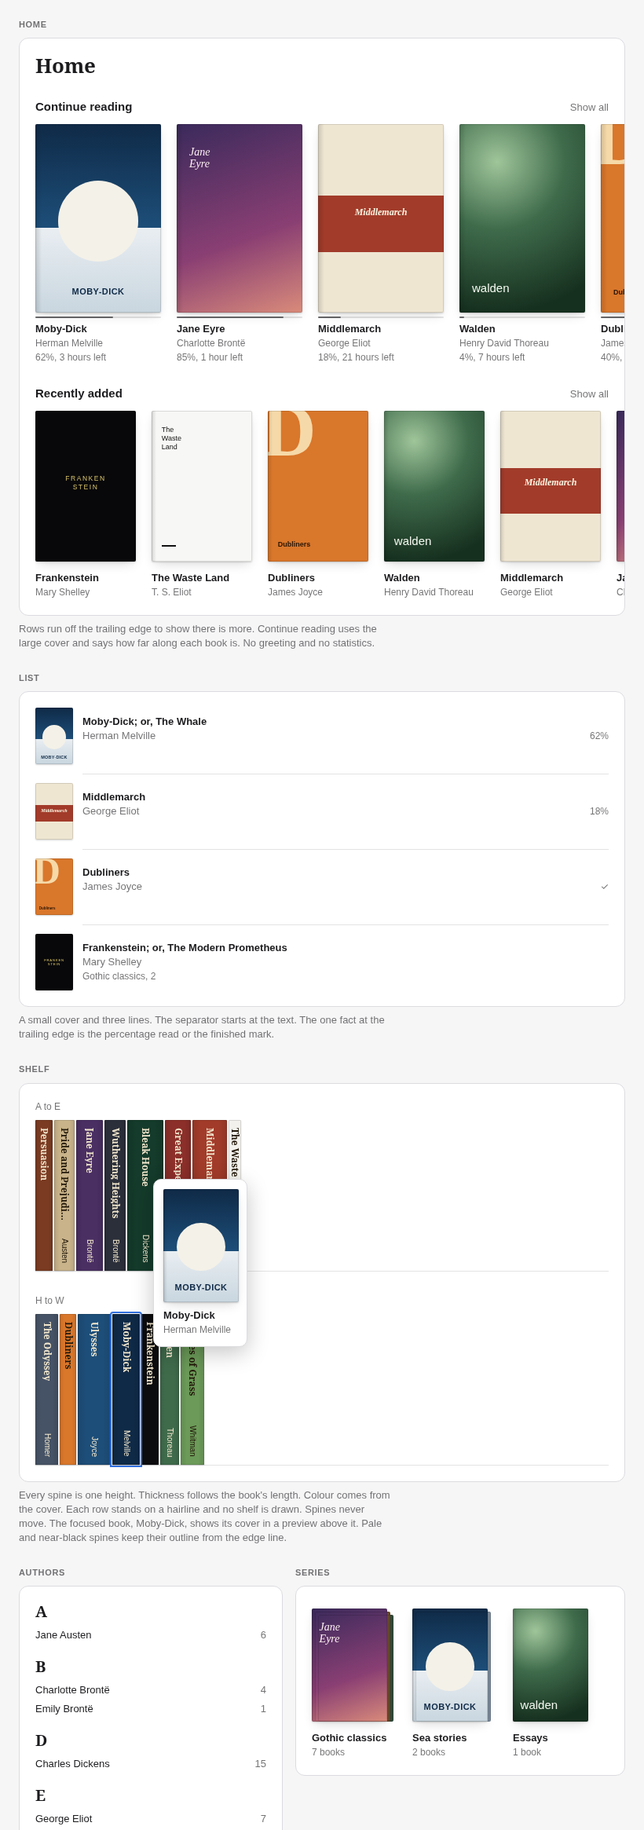
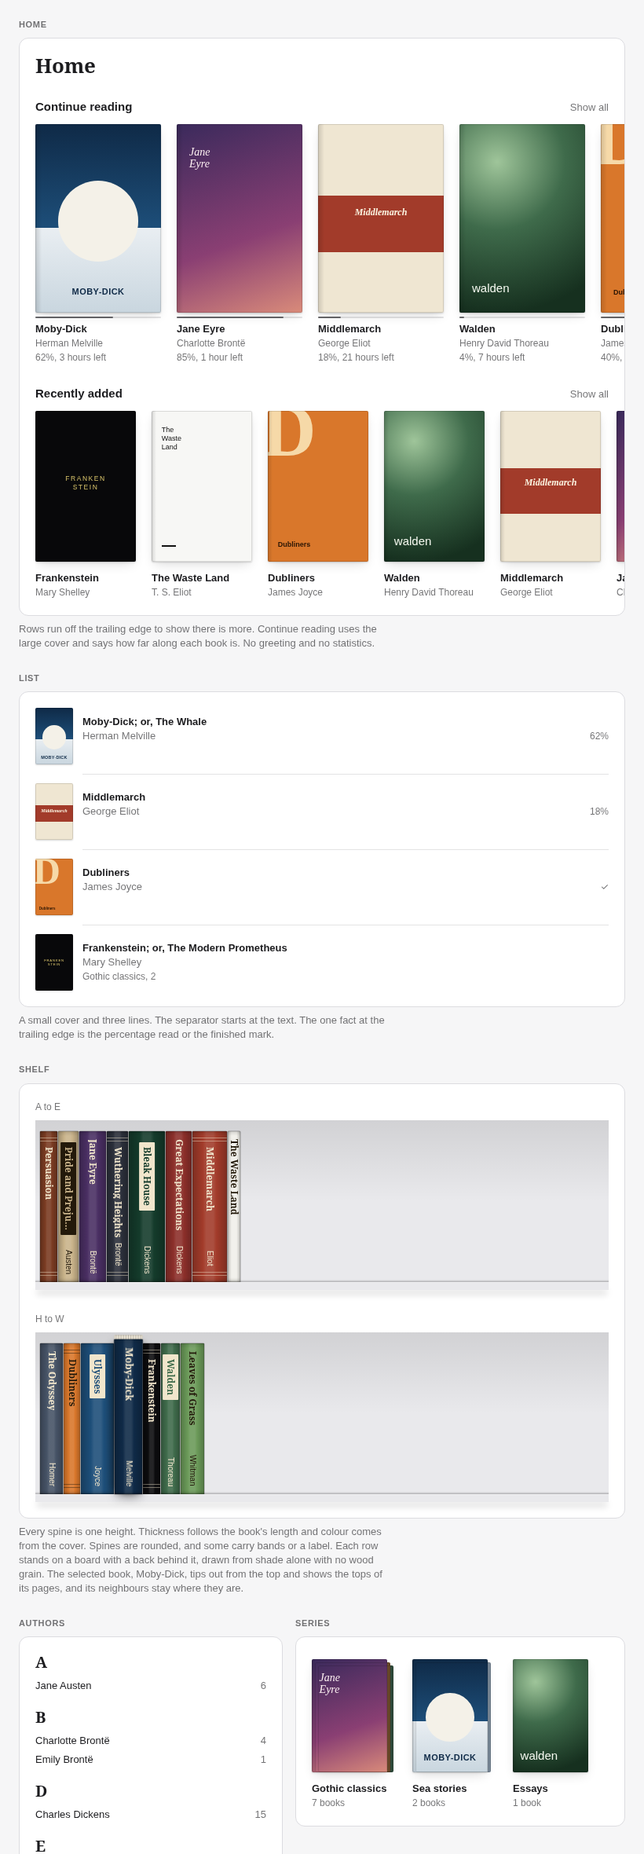
Make the shelf feel real and tip a selected book out from the top
The shelf stood flat spines on a hairline. It now draws depth from shade and
the platform's own fill colours: a board with a lit top edge and a shadow
under it, a back shaded by the board above, spines rounded across their
thickness and turned over at head and tail, and three spine styles (plain,
banded, labelled) chosen by hash. There is still no wood grain or texture, so
the shelf follows light and dark. Spines stay one height.

A selected book turns 10 degrees about its bottom edge with its top toward
the reader and shows the tops of its pages. It is a transform, so the row
does not reflow, which keeps the earlier fix for keyboard navigation and
runs of selected books. Pointer over a spine tips it 4 degrees.

Refs #91

diff --git a/docs/design/interface-views-sample.html b/docs/design/interface-views-sample.html
@@ -130,19 +130,24 @@
   .ltxt .a { color:var(--dim); }
   .ltxt .s, .ltr { color:var(--dim); font-size:12px; font-variant-numeric:tabular-nums; }
   .slabel { color:var(--dim); font-size:12px; margin:0 0 8px; }
-  .srow + .slabel { margin-top:28px; }
-  .srow { display:flex; align-items:flex-end; gap:2px; border-bottom:1px solid var(--hair); }
-  .spine { position:relative; height:192px; flex:none; border-radius:1px 1px 0 0; box-shadow:0 1px 2px var(--contact); overflow:hidden; }
-  .spine::after { content:""; position:absolute; inset:0; border-radius:inherit; box-shadow:inset 0 0 0 1px var(--edge); }
-  .spine.rnd::before { content:""; position:absolute; inset:0; background:linear-gradient(90deg,rgba(0,0,0,.10),rgba(0,0,0,0) 25%,rgba(0,0,0,0) 75%,rgba(0,0,0,.10)); }
+  .board + .slabel { margin-top:28px; }
+  .sback { background:linear-gradient(180deg, rgba(0,0,0,var(--backshade)), rgba(0,0,0,0) 50%), var(--fill); padding-top:14px; }
+  .srow { position:relative; display:flex; align-items:flex-end; gap:1px; padding:0 6px; }
+  .srow::after { content:""; position:absolute; left:0; right:0; bottom:0; height:3px; background:linear-gradient(0deg, rgba(0,0,0,.25), rgba(0,0,0,0)); pointer-events:none; z-index:4; }
+  .board { height:10px; background:var(--fill); box-shadow:inset 0 1px 0 var(--boardlight), 0 8px 8px -2px rgba(0,0,0,var(--boardshadow)); position:relative; }
+  :root { --backshade:.10; --boardlight:rgba(255,255,255,.35); --boardshadow:.14; --pagetop:#ece5d6; }
+  :root[data-theme="dark"] { --backshade:.30; --boardlight:rgba(255,255,255,.10); --boardshadow:.40; --pagetop:#bfb8a9; }
+  .spine { position:relative; height:192px; flex:none; border-radius:1px 1px 0 0; box-shadow:0 0 0 .5px rgba(0,0,0,.35); transform-origin:50% 100%; }
+  .spine::after { content:""; position:absolute; inset:0; border-radius:inherit; box-shadow:inset 0 0 0 1px var(--edge); background:linear-gradient(180deg, rgba(0,0,0,.12), rgba(0,0,0,0) 6px, rgba(0,0,0,0) calc(100% - 6px), rgba(0,0,0,.12)); pointer-events:none; }
+  .spine::before { content:""; position:absolute; inset:0; background:linear-gradient(90deg, rgba(0,0,0,.22), rgba(0,0,0,0) 30%, rgba(0,0,0,0) 70%, rgba(0,0,0,.22)); pointer-events:none; }
+  .spine.rnd::before { background:linear-gradient(90deg, rgba(0,0,0,.22), rgba(0,0,0,0) 30%, rgba(255,255,255,.10) 40%, rgba(255,255,255,.10) 60%, rgba(0,0,0,0) 70%, rgba(0,0,0,.22)); }
   .spine span { position:absolute; left:50%; writing-mode:vertical-rl; transform:translateX(-50%); white-space:nowrap; }
-  .spine .st { top:10px; font:600 12px/1 var(--serif); max-height:120px; overflow:hidden; text-overflow:ellipsis; }
+  .spine .st { top:10px; font:600 12px/1 var(--serif); max-height:118px; overflow:hidden; text-overflow:ellipsis; }
+  .spine .st.lab { top:14px; padding:6px 3px; border-radius:1px; line-height:1.15; }
   .spine .sa { bottom:10px; font:10px/1 var(--font-sans); }
-  .spine.sel { outline:2px solid var(--primary); outline-offset:1px; overflow:visible; z-index:1; }
-  .srow { position:relative; }
-  .pv { position:absolute; left:150px; bottom:150px; width:120px; padding:12px; background:var(--card); border:1px solid var(--border); border-radius:10px; box-shadow:0 8px 28px rgba(0,0,0,.22); z-index:3; font:13px/18px var(--font-sans); }
-  .pv .cover { width:96px; margin-bottom:8px; }
-  .pv b, .pv small { display:block; } .pv small { color:var(--dim); font-size:12px; }
+  .spine .bd { position:absolute; left:0; right:0; height:1px; background:currentColor; opacity:.45; }
+  .spine.sel { transform:perspective(800px) rotateX(-10deg); z-index:3; box-shadow:0 0 0 .5px rgba(0,0,0,.35), 0 6px 14px -4px rgba(0,0,0,.5), 6px 0 10px -4px rgba(0,0,0,.35), -6px 0 10px -4px rgba(0,0,0,.35); }
+  .spine.sel > .pt { position:absolute; left:0; right:0; top:-5px; height:5px; background:repeating-linear-gradient(90deg, var(--pagetop) 0 2px, color-mix(in srgb, var(--pagetop) 82%, #000) 2px 3px); box-shadow:inset 0 0 0 1px var(--edge); }
   .two { display:grid; grid-template-columns:1fr 1.25fr; gap:16px; align-items:start; margin-top:28px; }
   .idx { padding-top:4px; }
   .letter { font:600 20px/1.2 var(--serif); margin:16px 0 6px; }
@@ -178,10 +183,10 @@
 
 <h2>Shelf</h2>
 <div class="panel">
-  <div class="slabel">A to E</div><div class="srow"><div class="spine rnd" style="width:22px;background:#7a3b22;color:#f1e6cc"><span class="st">Persuasion</span></div><div class="spine rnd" style="width:26px;background:#c9b38a;color:#23190a"><span class="st">Pride and Prejudice</span><span class="sa">Austen</span></div><div class="spine rnd" style="width:34px;background:#4a2f63;color:#f1e6cc"><span class="st">Jane Eyre</span><span class="sa">Brontë</span></div><div class="spine rnd" style="width:27px;background:#2b2f3a;color:#f1e6cc"><span class="st">Wuthering Heights</span><span class="sa">Brontë</span></div><div class="spine rnd" style="width:46px;background:#143b2b;color:#f1e6cc"><span class="st">Bleak House</span><span class="sa">Dickens</span></div><div class="spine rnd" style="width:33px;background:#8c2f2a;color:#f1e6cc"><span class="st">Great Expectations</span><span class="sa">Dickens</span></div><div class="spine rnd" style="width:44px;background:#a23b2a;color:#f1e6cc"><span class="st">Middlemarch</span><span class="sa">Eliot</span></div><div class="spine" style="width:16px;background:#f2f1ec;color:#23190a"><span class="st">The Waste Land</span></div></div>
-  <div class="slabel">H to W</div><div class="srow"><div class="spine rnd" style="width:29px;background:#465366;color:#f1e6cc"><span class="st">The Odyssey</span><span class="sa">Homer</span></div><div class="spine rnd" style="width:21px;background:#d9772b;color:#23190a"><span class="st">Dubliners</span></div><div class="spine rnd" style="width:42px;background:#1d4e79;color:#f1e6cc"><span class="st">Ulysses</span><span class="sa">Joyce</span></div><div class="spine sel rnd" style="width:35px;background:#0f2a47;color:#f1e6cc"><span class="st">Moby-Dick</span><span class="sa">Melville</span></div><div class="pv"><div class="cover " style=""><div class="art" style="background:linear-gradient(180deg,#0f2a47 0%,#1d4e79 55%,#e9eef2 55%,#c9d6df 100%)"><i style="position:absolute;left:18%;top:30%;width:64%;aspect-ratio:1;border-radius:50%;background:#f4f1e8"></i><b style="position:absolute;left:10%;right:10%;bottom:9%;font:800 11px/1 var(--font-sans);letter-spacing:.04em;color:#0f2a47;text-align:center">MOBY-DICK</b></div></div><b>Moby-Dick</b><small>Herman Melville</small></div><div class="spine rnd" style="width:22px;background:#0c0c0e;color:#f1e6cc"><span class="st">Frankenstein</span></div><div class="spine rnd" style="width:24px;background:#3f6b4b;color:#f1e6cc"><span class="st">Walden</span><span class="sa">Thoreau</span></div><div class="spine rnd" style="width:30px;background:#6b9a59;color:#23190a"><span class="st">Leaves of Grass</span><span class="sa">Whitman</span></div></div>
+  <div class="slabel">A to E</div><div class="sback"><div class="srow"><div class="spine rnd" style="width:22px;background:#7a3b22;color:#f1e6cc"><i class="bd" style="top:8px"></i><i class="bd" style="top:12px"></i><i class="bd" style="bottom:8px"></i><i class="bd" style="bottom:12px"></i><span class="st" style="top:20px">Persuasion</span></div><div class="spine rnd" style="width:26px;background:#c9b38a;color:#23190a"><span class="st lab" style="background:#23190a;color:#c9b38a">Pride and Prejudice</span><span class="sa">Austen</span></div><div class="spine rnd" style="width:34px;background:#4a2f63;color:#f1e6cc"><span class="st">Jane Eyre</span><span class="sa">Brontë</span></div><div class="spine rnd" style="width:27px;background:#2b2f3a;color:#f1e6cc"><i class="bd" style="top:8px"></i><i class="bd" style="top:12px"></i><i class="bd" style="bottom:8px"></i><i class="bd" style="bottom:12px"></i><span class="st" style="top:20px">Wuthering Heights</span><span class="sa" style="bottom:20px">Brontë</span></div><div class="spine rnd" style="width:46px;background:#143b2b;color:#f1e6cc"><span class="st lab" style="background:#f1e6cc;color:#143b2b">Bleak House</span><span class="sa">Dickens</span></div><div class="spine rnd" style="width:33px;background:#8c2f2a;color:#f1e6cc"><span class="st">Great Expectations</span><span class="sa">Dickens</span></div><div class="spine rnd" style="width:44px;background:#a23b2a;color:#f1e6cc"><i class="bd" style="top:8px"></i><i class="bd" style="top:12px"></i><i class="bd" style="bottom:8px"></i><i class="bd" style="bottom:12px"></i><span class="st" style="top:20px">Middlemarch</span><span class="sa" style="bottom:20px">Eliot</span></div><div class="spine" style="width:16px;background:#f2f1ec;color:#23190a"><span class="st">The Waste Land</span></div></div></div><div class="board"></div>
+  <div class="slabel">H to W</div><div class="sback"><div class="srow"><div class="spine rnd" style="width:29px;background:#465366;color:#f1e6cc"><span class="st">The Odyssey</span><span class="sa">Homer</span></div><div class="spine rnd" style="width:21px;background:#d9772b;color:#23190a"><i class="bd" style="top:8px"></i><i class="bd" style="top:12px"></i><i class="bd" style="bottom:8px"></i><i class="bd" style="bottom:12px"></i><span class="st" style="top:20px">Dubliners</span></div><div class="spine rnd" style="width:42px;background:#1d4e79;color:#f1e6cc"><span class="st lab" style="background:#f1e6cc;color:#1d4e79">Ulysses</span><span class="sa">Joyce</span></div><div class="spine sel rnd" style="width:35px;background:#0f2a47;color:#f1e6cc"><span class="st">Moby-Dick</span><span class="sa">Melville</span><i class="pt"></i></div><div class="spine rnd" style="width:22px;background:#0c0c0e;color:#f1e6cc"><i class="bd" style="top:8px"></i><i class="bd" style="top:12px"></i><i class="bd" style="bottom:8px"></i><i class="bd" style="bottom:12px"></i><span class="st" style="top:20px">Frankenstein</span></div><div class="spine rnd" style="width:24px;background:#3f6b4b;color:#f1e6cc"><span class="st lab" style="background:#f1e6cc;color:#3f6b4b">Walden</span><span class="sa">Thoreau</span></div><div class="spine rnd" style="width:30px;background:#6b9a59;color:#23190a"><span class="st">Leaves of Grass</span><span class="sa">Whitman</span></div></div></div><div class="board"></div>
 </div>
-<p class="note">Every spine is one height. Thickness follows the book's length. Colour comes from the cover. Each row stands on a hairline and no shelf is drawn. Spines never move. The focused book, Moby-Dick, shows its cover in a preview above it. Pale and near-black spines keep their outline from the edge line.</p>
+<p class="note">Every spine is one height. Thickness follows the book's length and colour comes from the cover. Spines are rounded, and some carry bands or a label. Each row stands on a board with a back behind it, drawn from shade alone with no wood grain. The selected book, Moby-Dick, tips out from the top and shows the tops of its pages, and its neighbours stay where they are.</p>
 <div class="two">
 <div>
 <h2>Authors</h2>

diff --git a/docs/design/interface-reader-sample.html b/docs/design/interface-reader-sample.html
@@ -130,19 +130,24 @@
   .ltxt .a { color:var(--dim); }
   .ltxt .s, .ltr { color:var(--dim); font-size:12px; font-variant-numeric:tabular-nums; }
   .slabel { color:var(--dim); font-size:12px; margin:0 0 8px; }
-  .srow + .slabel { margin-top:28px; }
-  .srow { display:flex; align-items:flex-end; gap:2px; border-bottom:1px solid var(--hair); }
-  .spine { position:relative; height:192px; flex:none; border-radius:1px 1px 0 0; box-shadow:0 1px 2px var(--contact); overflow:hidden; }
-  .spine::after { content:""; position:absolute; inset:0; border-radius:inherit; box-shadow:inset 0 0 0 1px var(--edge); }
-  .spine.rnd::before { content:""; position:absolute; inset:0; background:linear-gradient(90deg,rgba(0,0,0,.10),rgba(0,0,0,0) 25%,rgba(0,0,0,0) 75%,rgba(0,0,0,.10)); }
+  .board + .slabel { margin-top:28px; }
+  .sback { background:linear-gradient(180deg, rgba(0,0,0,var(--backshade)), rgba(0,0,0,0) 50%), var(--fill); padding-top:14px; }
+  .srow { position:relative; display:flex; align-items:flex-end; gap:1px; padding:0 6px; }
+  .srow::after { content:""; position:absolute; left:0; right:0; bottom:0; height:3px; background:linear-gradient(0deg, rgba(0,0,0,.25), rgba(0,0,0,0)); pointer-events:none; z-index:4; }
+  .board { height:10px; background:var(--fill); box-shadow:inset 0 1px 0 var(--boardlight), 0 8px 8px -2px rgba(0,0,0,var(--boardshadow)); position:relative; }
+  :root { --backshade:.10; --boardlight:rgba(255,255,255,.35); --boardshadow:.14; --pagetop:#ece5d6; }
+  :root[data-theme="dark"] { --backshade:.30; --boardlight:rgba(255,255,255,.10); --boardshadow:.40; --pagetop:#bfb8a9; }
+  .spine { position:relative; height:192px; flex:none; border-radius:1px 1px 0 0; box-shadow:0 0 0 .5px rgba(0,0,0,.35); transform-origin:50% 100%; }
+  .spine::after { content:""; position:absolute; inset:0; border-radius:inherit; box-shadow:inset 0 0 0 1px var(--edge); background:linear-gradient(180deg, rgba(0,0,0,.12), rgba(0,0,0,0) 6px, rgba(0,0,0,0) calc(100% - 6px), rgba(0,0,0,.12)); pointer-events:none; }
+  .spine::before { content:""; position:absolute; inset:0; background:linear-gradient(90deg, rgba(0,0,0,.22), rgba(0,0,0,0) 30%, rgba(0,0,0,0) 70%, rgba(0,0,0,.22)); pointer-events:none; }
+  .spine.rnd::before { background:linear-gradient(90deg, rgba(0,0,0,.22), rgba(0,0,0,0) 30%, rgba(255,255,255,.10) 40%, rgba(255,255,255,.10) 60%, rgba(0,0,0,0) 70%, rgba(0,0,0,.22)); }
   .spine span { position:absolute; left:50%; writing-mode:vertical-rl; transform:translateX(-50%); white-space:nowrap; }
-  .spine .st { top:10px; font:600 12px/1 var(--serif); max-height:120px; overflow:hidden; text-overflow:ellipsis; }
+  .spine .st { top:10px; font:600 12px/1 var(--serif); max-height:118px; overflow:hidden; text-overflow:ellipsis; }
+  .spine .st.lab { top:14px; padding:6px 3px; border-radius:1px; line-height:1.15; }
   .spine .sa { bottom:10px; font:10px/1 var(--font-sans); }
-  .spine.sel { outline:2px solid var(--primary); outline-offset:1px; overflow:visible; z-index:1; }
-  .srow { position:relative; }
-  .pv { position:absolute; left:150px; bottom:150px; width:120px; padding:12px; background:var(--card); border:1px solid var(--border); border-radius:10px; box-shadow:0 8px 28px rgba(0,0,0,.22); z-index:3; font:13px/18px var(--font-sans); }
-  .pv .cover { width:96px; margin-bottom:8px; }
-  .pv b, .pv small { display:block; } .pv small { color:var(--dim); font-size:12px; }
+  .spine .bd { position:absolute; left:0; right:0; height:1px; background:currentColor; opacity:.45; }
+  .spine.sel { transform:perspective(800px) rotateX(-10deg); z-index:3; box-shadow:0 0 0 .5px rgba(0,0,0,.35), 0 6px 14px -4px rgba(0,0,0,.5), 6px 0 10px -4px rgba(0,0,0,.35), -6px 0 10px -4px rgba(0,0,0,.35); }
+  .spine.sel > .pt { position:absolute; left:0; right:0; top:-5px; height:5px; background:repeating-linear-gradient(90deg, var(--pagetop) 0 2px, color-mix(in srgb, var(--pagetop) 82%, #000) 2px 3px); box-shadow:inset 0 0 0 1px var(--edge); }
   .two { display:grid; grid-template-columns:1fr 1.25fr; gap:16px; align-items:start; margin-top:28px; }
   .idx { padding-top:4px; }
   .letter { font:600 20px/1.2 var(--serif); margin:16px 0 6px; }
@@ -168,19 +173,36 @@
   .ltxt .a { color:var(--dim); }
   .ltxt .s, .ltr { color:var(--dim); font-size:12px; font-variant-numeric:tabular-nums; }
   .slabel { color:var(--dim); font-size:12px; margin:0 0 8px; }
-  .srow + .slabel { margin-top:28px; }
-  .srow { display:flex; align-items:flex-end; gap:2px; border-bottom:1px solid var(--hair); }
-  .spine { position:relative; height:192px; flex:none; border-radius:1px 1px 0 0; box-shadow:0 1px 2px var(--contact); overflow:hidden; }
-  .spine::after { content:""; position:absolute; inset:0; border-radius:inherit; box-shadow:inset 0 0 0 1px var(--edge); }
-  .spine.rnd::before { content:""; position:absolute; inset:0; background:linear-gradient(90deg,rgba(0,0,0,.10),rgba(0,0,0,0) 25%,rgba(0,0,0,0) 75%,rgba(0,0,0,.10)); }
+  .board + .slabel { margin-top:28px; }
+  .sback { background:linear-gradient(180deg, rgba(0,0,0,var(--backshade)), rgba(0,0,0,0) 50%), var(--fill); padding-top:14px; }
+  .srow { position:relative; display:flex; align-items:flex-end; gap:1px; padding:0 6px; }
+  .srow::after { content:""; position:absolute; left:0; right:0; bottom:0; height:3px; background:linear-gradient(0deg, rgba(0,0,0,.25), rgba(0,0,0,0)); pointer-events:none; z-index:4; }
+  .board { height:10px; background:var(--fill); box-shadow:inset 0 1px 0 var(--boardlight), 0 8px 8px -2px rgba(0,0,0,var(--boardshadow)); position:relative; }
+  :root { --backshade:.10; --boardlight:rgba(255,255,255,.35); --boardshadow:.14; --pagetop:#ece5d6; }
+  :root[data-theme="dark"] { --backshade:.30; --boardlight:rgba(255,255,255,.10); --boardshadow:.40; --pagetop:#bfb8a9; }
+  .spine { position:relative; height:192px; flex:none; border-radius:1px 1px 0 0; box-shadow:0 0 0 .5px rgba(0,0,0,.35); transform-origin:50% 100%; }
+  .spine::after { content:""; position:absolute; inset:0; border-radius:inherit; box-shadow:inset 0 0 0 1px var(--edge); background:linear-gradient(180deg, rgba(0,0,0,.12), rgba(0,0,0,0) 6px, rgba(0,0,0,0) calc(100% - 6px), rgba(0,0,0,.12)); pointer-events:none; }
+  .spine::before { content:""; position:absolute; inset:0; background:linear-gradient(90deg, rgba(0,0,0,.22), rgba(0,0,0,0) 30%, rgba(0,0,0,0) 70%, rgba(0,0,0,.22)); pointer-events:none; }
+  .spine.rnd::before { background:linear-gradient(90deg, rgba(0,0,0,.22), rgba(0,0,0,0) 30%, rgba(255,255,255,.10) 40%, rgba(255,255,255,.10) 60%, rgba(0,0,0,0) 70%, rgba(0,0,0,.22)); }
   .spine span { position:absolute; left:50%; writing-mode:vertical-rl; transform:translateX(-50%); white-space:nowrap; }
-  .spine .st { top:10px; font:600 12px/1 var(--serif); max-height:120px; overflow:hidden; text-overflow:ellipsis; }
+  .spine .st { top:10px; font:600 12px/1 var(--serif); max-height:118px; overflow:hidden; text-overflow:ellipsis; }
+  .spine .st.lab { top:14px; padding:6px 3px; border-radius:1px; line-height:1.15; }
   .spine .sa { bottom:10px; font:10px/1 var(--font-sans); }
-  .spine.sel { outline:2px solid var(--primary); outline-offset:1px; overflow:visible; z-index:1; }
-  .srow { position:relative; }
-  .pv { position:absolute; left:150px; bottom:150px; width:120px; padding:12px; background:var(--card); border:1px solid var(--border); border-radius:10px; box-shadow:0 8px 28px rgba(0,0,0,.22); z-index:3; font:13px/18px var(--font-sans); }
-  .pv .cover { width:96px; margin-bottom:8px; }
-  .pv b, .pv 
+  .spine .bd { position:absolute; left:0; right:0; height:1px; background:currentColor; opacity:.45; }
+  .spine.sel { transform:perspective(800px) rotateX(-10deg); z-index:3; box-shadow:0 0 0 .5px rgba(0,0,0,.35), 0 6px 14px -4px rgba(0,0,0,.5), 6px 0 10px -4px rgba(0,0,0,.35), -6px 0 10px -4px rgba(0,0,0,.35); }
+  .spine.sel > .pt { position:absolute; left:0; right:0; top:-5px; height:5px; background:repeating-linear-gradient(90deg, var(--pagetop) 0 2px, color-mix(in srgb, var(--pagetop) 82%, #000) 2px 3px); box-shadow:inset 0 0 0 1px var(--edge); }
+  .two { display:grid; grid-template-columns:1fr 1.25fr; gap:16px; align-items:start; margin-top:28px; }
+  .idx { padding-top:4px; }
+  .letter { font:600 20px/1.2 var(--serif); margin:16px 0 6px; }
+  .irow { display:flex; justify-content:space-between; padding:3px 0; }
+  .irow i { font-style:normal; color:var(--dim); font-variant-numeric:tabular-nums; }
+  .stack { position:relative; margin-top:8px; }
+  .cover.back { position:absolute; width:auto; aspect-ratio:auto; box-shadow:none; }
+  .cover.back::before { display:none; }
+  .stack > .cover:not(.back) { z-index:1; }
+
+  .dim, small { color:var(--dim); }
+  
   :root { --page:#f4ecd8; --ptext:#3b2f21; --psec:#736858; --mark:#eed684; --mat: rgba(250,246,236,.86); }
   :root[data-theme="dark"] { --page:#2b2b2e; --ptext:#d6d6d8; --psec:#929294; --mark:#6b5a12; --mat: rgba(52,52,56,.86); }
   small { display:block; font-size:12px; color:var(--dim); }

diff --git a/docs/design/interface-screens-sample.html b/docs/design/interface-screens-sample.html
@@ -130,19 +130,24 @@
   .ltxt .a { color:var(--dim); }
   .ltxt .s, .ltr { color:var(--dim); font-size:12px; font-variant-numeric:tabular-nums; }
   .slabel { color:var(--dim); font-size:12px; margin:0 0 8px; }
-  .srow + .slabel { margin-top:28px; }
-  .srow { display:flex; align-items:flex-end; gap:2px; border-bottom:1px solid var(--hair); }
-  .spine { position:relative; height:192px; flex:none; border-radius:1px 1px 0 0; box-shadow:0 1px 2px var(--contact); overflow:hidden; }
-  .spine::after { content:""; position:absolute; inset:0; border-radius:inherit; box-shadow:inset 0 0 0 1px var(--edge); }
-  .spine.rnd::before { content:""; position:absolute; inset:0; background:linear-gradient(90deg,rgba(0,0,0,.10),rgba(0,0,0,0) 25%,rgba(0,0,0,0) 75%,rgba(0,0,0,.10)); }
+  .board + .slabel { margin-top:28px; }
+  .sback { background:linear-gradient(180deg, rgba(0,0,0,var(--backshade)), rgba(0,0,0,0) 50%), var(--fill); padding-top:14px; }
+  .srow { position:relative; display:flex; align-items:flex-end; gap:1px; padding:0 6px; }
+  .srow::after { content:""; position:absolute; left:0; right:0; bottom:0; height:3px; background:linear-gradient(0deg, rgba(0,0,0,.25), rgba(0,0,0,0)); pointer-events:none; z-index:4; }
+  .board { height:10px; background:var(--fill); box-shadow:inset 0 1px 0 var(--boardlight), 0 8px 8px -2px rgba(0,0,0,var(--boardshadow)); position:relative; }
+  :root { --backshade:.10; --boardlight:rgba(255,255,255,.35); --boardshadow:.14; --pagetop:#ece5d6; }
+  :root[data-theme="dark"] { --backshade:.30; --boardlight:rgba(255,255,255,.10); --boardshadow:.40; --pagetop:#bfb8a9; }
+  .spine { position:relative; height:192px; flex:none; border-radius:1px 1px 0 0; box-shadow:0 0 0 .5px rgba(0,0,0,.35); transform-origin:50% 100%; }
+  .spine::after { content:""; position:absolute; inset:0; border-radius:inherit; box-shadow:inset 0 0 0 1px var(--edge); background:linear-gradient(180deg, rgba(0,0,0,.12), rgba(0,0,0,0) 6px, rgba(0,0,0,0) calc(100% - 6px), rgba(0,0,0,.12)); pointer-events:none; }
+  .spine::before { content:""; position:absolute; inset:0; background:linear-gradient(90deg, rgba(0,0,0,.22), rgba(0,0,0,0) 30%, rgba(0,0,0,0) 70%, rgba(0,0,0,.22)); pointer-events:none; }
+  .spine.rnd::before { background:linear-gradient(90deg, rgba(0,0,0,.22), rgba(0,0,0,0) 30%, rgba(255,255,255,.10) 40%, rgba(255,255,255,.10) 60%, rgba(0,0,0,0) 70%, rgba(0,0,0,.22)); }
   .spine span { position:absolute; left:50%; writing-mode:vertical-rl; transform:translateX(-50%); white-space:nowrap; }
-  .spine .st { top:10px; font:600 12px/1 var(--serif); max-height:120px; overflow:hidden; text-overflow:ellipsis; }
+  .spine .st { top:10px; font:600 12px/1 var(--serif); max-height:118px; overflow:hidden; text-overflow:ellipsis; }
+  .spine .st.lab { top:14px; padding:6px 3px; border-radius:1px; line-height:1.15; }
   .spine .sa { bottom:10px; font:10px/1 var(--font-sans); }
-  .spine.sel { outline:2px solid var(--primary); outline-offset:1px; overflow:visible; z-index:1; }
-  .srow { position:relative; }
-  .pv { position:absolute; left:150px; bottom:150px; width:120px; padding:12px; background:var(--card); border:1px solid var(--border); border-radius:10px; box-shadow:0 8px 28px rgba(0,0,0,.22); z-index:3; font:13px/18px var(--font-sans); }
-  .pv .cover { width:96px; margin-bottom:8px; }
-  .pv b, .pv small { display:block; } .pv small { color:var(--dim); font-size:12px; }
+  .spine .bd { position:absolute; left:0; right:0; height:1px; background:currentColor; opacity:.45; }
+  .spine.sel { transform:perspective(800px) rotateX(-10deg); z-index:3; box-shadow:0 0 0 .5px rgba(0,0,0,.35), 0 6px 14px -4px rgba(0,0,0,.5), 6px 0 10px -4px rgba(0,0,0,.35), -6px 0 10px -4px rgba(0,0,0,.35); }
+  .spine.sel > .pt { position:absolute; left:0; right:0; top:-5px; height:5px; background:repeating-linear-gradient(90deg, var(--pagetop) 0 2px, color-mix(in srgb, var(--pagetop) 82%, #000) 2px 3px); box-shadow:inset 0 0 0 1px var(--edge); }
   .two { display:grid; grid-template-columns:1fr 1.25fr; gap:16px; align-items:start; margin-top:28px; }
   .idx { padding-top:4px; }
   .letter { font:600 20px/1.2 var(--serif); margin:16px 0 6px; }

diff --git a/docs/design/interface-views.md b/docs/design/interface-views.md
@@ -130,9 +130,12 @@ control with its own row background, separators, selection and swipe actions.
 
 ## Shelf
 
-The shelf shows books by their spines, standing in rows. It is the one place the
-app draws a book from the side. It follows the same restraint as a cover: flat
-colour, type and a hairline, with no wood and no texture.
+The shelf shows books by their spines, standing in rows on shelves. It is the one
+view meant to look like the real thing: the books have rounded spines, bands and
+labels, they stand on a board with depth, and a selected book tips out from the
+top as if a finger had hooked it. The realism comes from shape, light and
+shadow. There is still no wood grain, leather or any other texture, so the shelf
+takes the platform's colours and works in light and dark.
 
 | Part | Value |
 |---|---|
@@ -143,11 +146,15 @@ colour, type and a hairline, with no wood and no texture.
 | Title | One line in the serif, semibold, 12 units, laid out by the platform's text system in the title's own direction and then turned a quarter turn clockwise, so a left-to-right title reads from the top of the spine down. It starts 10 from the top. It is truncated with an ellipsis at the end of the title in reading order. A right-to-left title is laid out right to left before the turn, so it too begins at the top. Where the platform has vertical text layout, a Chinese, Japanese or Korean title uses it, with its characters upright and any Latin run turned. Where it has not, the title is turned like any other. |
 | Author | The family name only, at the foot, 10 from the bottom, in the UI font at 10 units, turned the same way. Left out when the spine is under 24 thick, or when the title, the name and 24 between them do not fit the height. The title is truncated only after the author is gone. |
 | Edge | The cover's edge line, inside the spine's outline. |
-| Round | A shade across the spine to suggest its curve: black at 10% on both long edges fading to nothing by a quarter of the thickness. Left out under 20 thick. |
+| Round | A spine is lit from the front and curves away at its sides. Across its thickness: black at 22% at each long edge fading to nothing by 30% of the thickness, and a highlight of white at 10% down the middle fifth. Under 20 thick the highlight is left out. |
+| Head and tail | A shade of black at 12% over the top 6 units and the bottom 6, fading toward the middle, where a spine turns over at its ends. |
+| Bands | Each book has one of three spine styles, chosen by the same hash that picks a binding colour, taken modulo 3. Plain: nothing more. Banded: two rules 1 unit thick across the spine in the type colour at 45%, 8 and 12 from the top, and two more the same distances from the foot. Labelled: the title sits on a label, a block in the type colour with the spine colour as its type, 6 in from each long edge and 6 beyond the title at each end, with corners of 1. |
 | Corners | 1 unit at the top. Square at the foot, where the spine stands. |
-| Gap | 2 between spines. |
-| Line | Each row stands on a hairline in the platform's separator colour, as wide as the content. The row casts the cover's contact shadow onto it and no ambient shadow. |
-| Rows | Spines fill a row from the leading edge and wrap. 28 separates a row's line from the next row's tops. |
+| Gap | 1 between spines, filled with black at 35%, the dark between two books that touch. |
+| Board | Each row stands on a board as wide as the content and 10 thick, in the platform's secondary fill colour. Its top edge has a line 1 unit thick, white at 35% in light appearance and at 10% in dark, where the light catches it. Under the board a shadow 8 units deep fades from black at 14% to nothing in light appearance and from 40% in dark. |
+| Back | Behind the spines, as wide as the content and as tall as they are, the back of the shelf: the platform's secondary fill colour with a shade of black from 10% at the top to nothing halfway down, the shadow of the board above. In dark appearance the shade starts at 30%. |
+| Standing | Where the spines meet the board, a shade 3 units tall across the whole row, black at 25% fading upward. Books do not float. |
+| Rows | Spines fill a row from the leading edge and wrap. 28 separates the foot of one board's shadow from the tops of the next row. |
 
 - The type on a spine is artwork, like the type on a binding, and does not count
   as one of the interface's serif roles.
@@ -157,11 +164,23 @@ colour, type and a hairline, with no wood and no texture.
   Series by series, and the date sorts by year. A new group starts a new row.
   Its name sits above the row at the leading edge in the caption style and
   secondary colour. Any other sort has no groups and the spines run on.
-- Pointer over a spine: it rises 2 units, as a cover does, and a tooltip gives
-  the title and author.
-- Spines never move. Selection and keyboard focus use the collection control's
-  own visuals around the spine, so a row keeps its shape while the reader moves
-  through it or selects a run of books.
+- Pointer over a spine: it tips 4 degrees, the start of the move below, and a
+  tooltip gives the title and author.
+- A selected book tips out from the top. The spine turns 10 degrees about its
+  bottom edge, its top coming toward the reader, drawn in perspective from a
+  distance of 800 units, so the top looks a little wider and nearer while the
+  foot stays on the board. Above the top edge a strip 5 units tall shows the
+  tops of the pages, in `#ece5d6` in light appearance and `#bfb8a9` in dark,
+  with the edge line.
+- A tipped book casts the cover's ambient shadow onto its neighbours and keeps
+  its place. Nothing in the row moves along, so the row holds its shape while
+  the reader moves through it or selects a run of books, each of which tips.
+- The tip is a spring from the platform's standard set, without overshoot. When
+  the system asks for less motion the book is shown tipped with no animation.
+  The tip is a state and not only a movement.
+- Tipping is the shelf's selection visual and replaces the collection control's
+  own. Keyboard focus keeps the control's focus ring, drawn around the spine's
+  untipped outline.
 - The book's cover answers which book a spine is. With the details pane open it
   is there. Without the pane, the focused spine shows a preview above it: the
   cover 96 wide with the title and author under it, in the platform's popover or
@@ -172,8 +191,10 @@ colour, type and a hairline, with no wood and no texture.
   tap opens book details.
 - Reading state is not drawn on a spine. It is in the tooltip, in book details
   and in the accessible name, which reads the title, the author and the state.
-- Under More contrast the round shade, the edge line and the shadow are removed
-  and each spine gets a 1 unit outline in the primary text colour.
+- Under More contrast the round, head and standing shades, the back's shade and
+  the shadows are removed. Each spine gets a 1 unit outline in the primary text
+  colour and the board gets one too. A selected spine still tips and its
+  outline is 2 units in the accent colour.
 - The shelf uses the system's text scale for nothing. Spine type is a fixed
   size, so the shelf is not the view for large text. At a text scale of 1.5 or
   more a place set to Shelf shows List, as Grid does.
@@ -234,6 +255,7 @@ platform's gear or filter symbol after its name.
 | List | `List` | `List` | `ListView` | `GtkListView` with `.navigation-sidebar` left off | `LazyColumn` with list items |
 | Table | `Table` | `Table` on iPad | `ListView` with column headers | `GtkColumnView` | A lazy column with a fixed header row, from 640 wide |
 | Shelf | AppKit collection view with a flow layout | UIKit collection view with a flow layout | `ItemsView` with a flow layout | `GtkFlowBox` for small places, a custom layout over a list model for large ones | `FlowRow` in a lazy column, one row per shelf |
+| Tipping a spine | `rotation3DEffect` about the bottom edge with perspective | The same | A `PlaneProjection` or a composition 3D transform with perspective | A `GskTransform` with perspective and a rotation about the x axis | `graphicsLayer` with `rotationX`, `cameraDistance` and the transform origin at the bottom |
 | Filter | Popover from the toolbar | Sheet on iPhone, popover on iPad | Flyout | Popover, a bottom sheet on a phone | Modal bottom sheet |
 | Filter tokens | Token field style buttons | The same | Removable buttons | Removable pill buttons | Input chips |
 | Index strip for authors | None | `List` section index | None | None | None |
@@ -255,12 +277,16 @@ and extending a selection without a dropped frame before the shelf ships there.
    look more like a real shelf. They were turned down for the same reason covers
    became one size: unevenness that a reader of digital books has no reason for.
    Thickness stays because it carries a fact, the book's length.
-2. **A focused spine shows its cover in a preview and does not move.** The
-   first version replaced a selected spine with its cover in the row. A reviewer
-   showed that it reflows the row the reader is moving through and breaks down
-   with a run of books selected.
-3. **The shelf stands on a hairline, with no shelf drawn.** A drawn board, even
-   a flat one, is the first step toward decoration.
+2. **A selected book tips out from the top and keeps its place.** This was
+   asked for. It also meets a reviewer's objection to an earlier version, which
+   replaced a selected spine with its cover and reflowed the row. A tip is a
+   transform, so the row does not change. A focused spine can still show its
+   cover in a preview.
+3. **The shelf is drawn with depth and without materials.** The first version
+   stood spines on a hairline. Asked to make it feel more real, the page now
+   draws a board, a back, rounded spines, bands and labels, all from shade and
+   the platform's own fill colours. Wood grain was turned down because it cannot
+   follow the system's colours or its dark appearance.
 4. **Index letters are in the serif.** This adds a fourth place for the serif
    in the library window. A letter standing alone is the plainest library cue
    there is.

diff --git a/docs/design/interface.md b/docs/design/interface.md
@@ -51,9 +51,11 @@ Four things, each of which you can measure on a screen.
 | Warmth | A serif for the names of things. Covers drawn as objects with weight. Paper tones in the reader. |
 | Books first | The frame takes its colour from the system. The only strong colour in the window is on the covers and the one prominent action. |
 
-Things the app never draws: wood, leather, cloth or paper textures, a board under
-the books, page curls, gilt, drop caps or ornaments in the interface, and
-book-shaped custom controls. They date the app and fight the platform's materials.
+Things the app never draws: wood, leather, cloth or paper textures, page curls,
+gilt, drop caps or ornaments in the interface, and book-shaped custom controls.
+They date the app and fight the platform's materials. One view, the
+[shelf](interface-views.md#shelf), draws books and their shelf with depth, from
+shade and the platform's own colours and still without textures.
 
 ## Rules for the content layer
 
